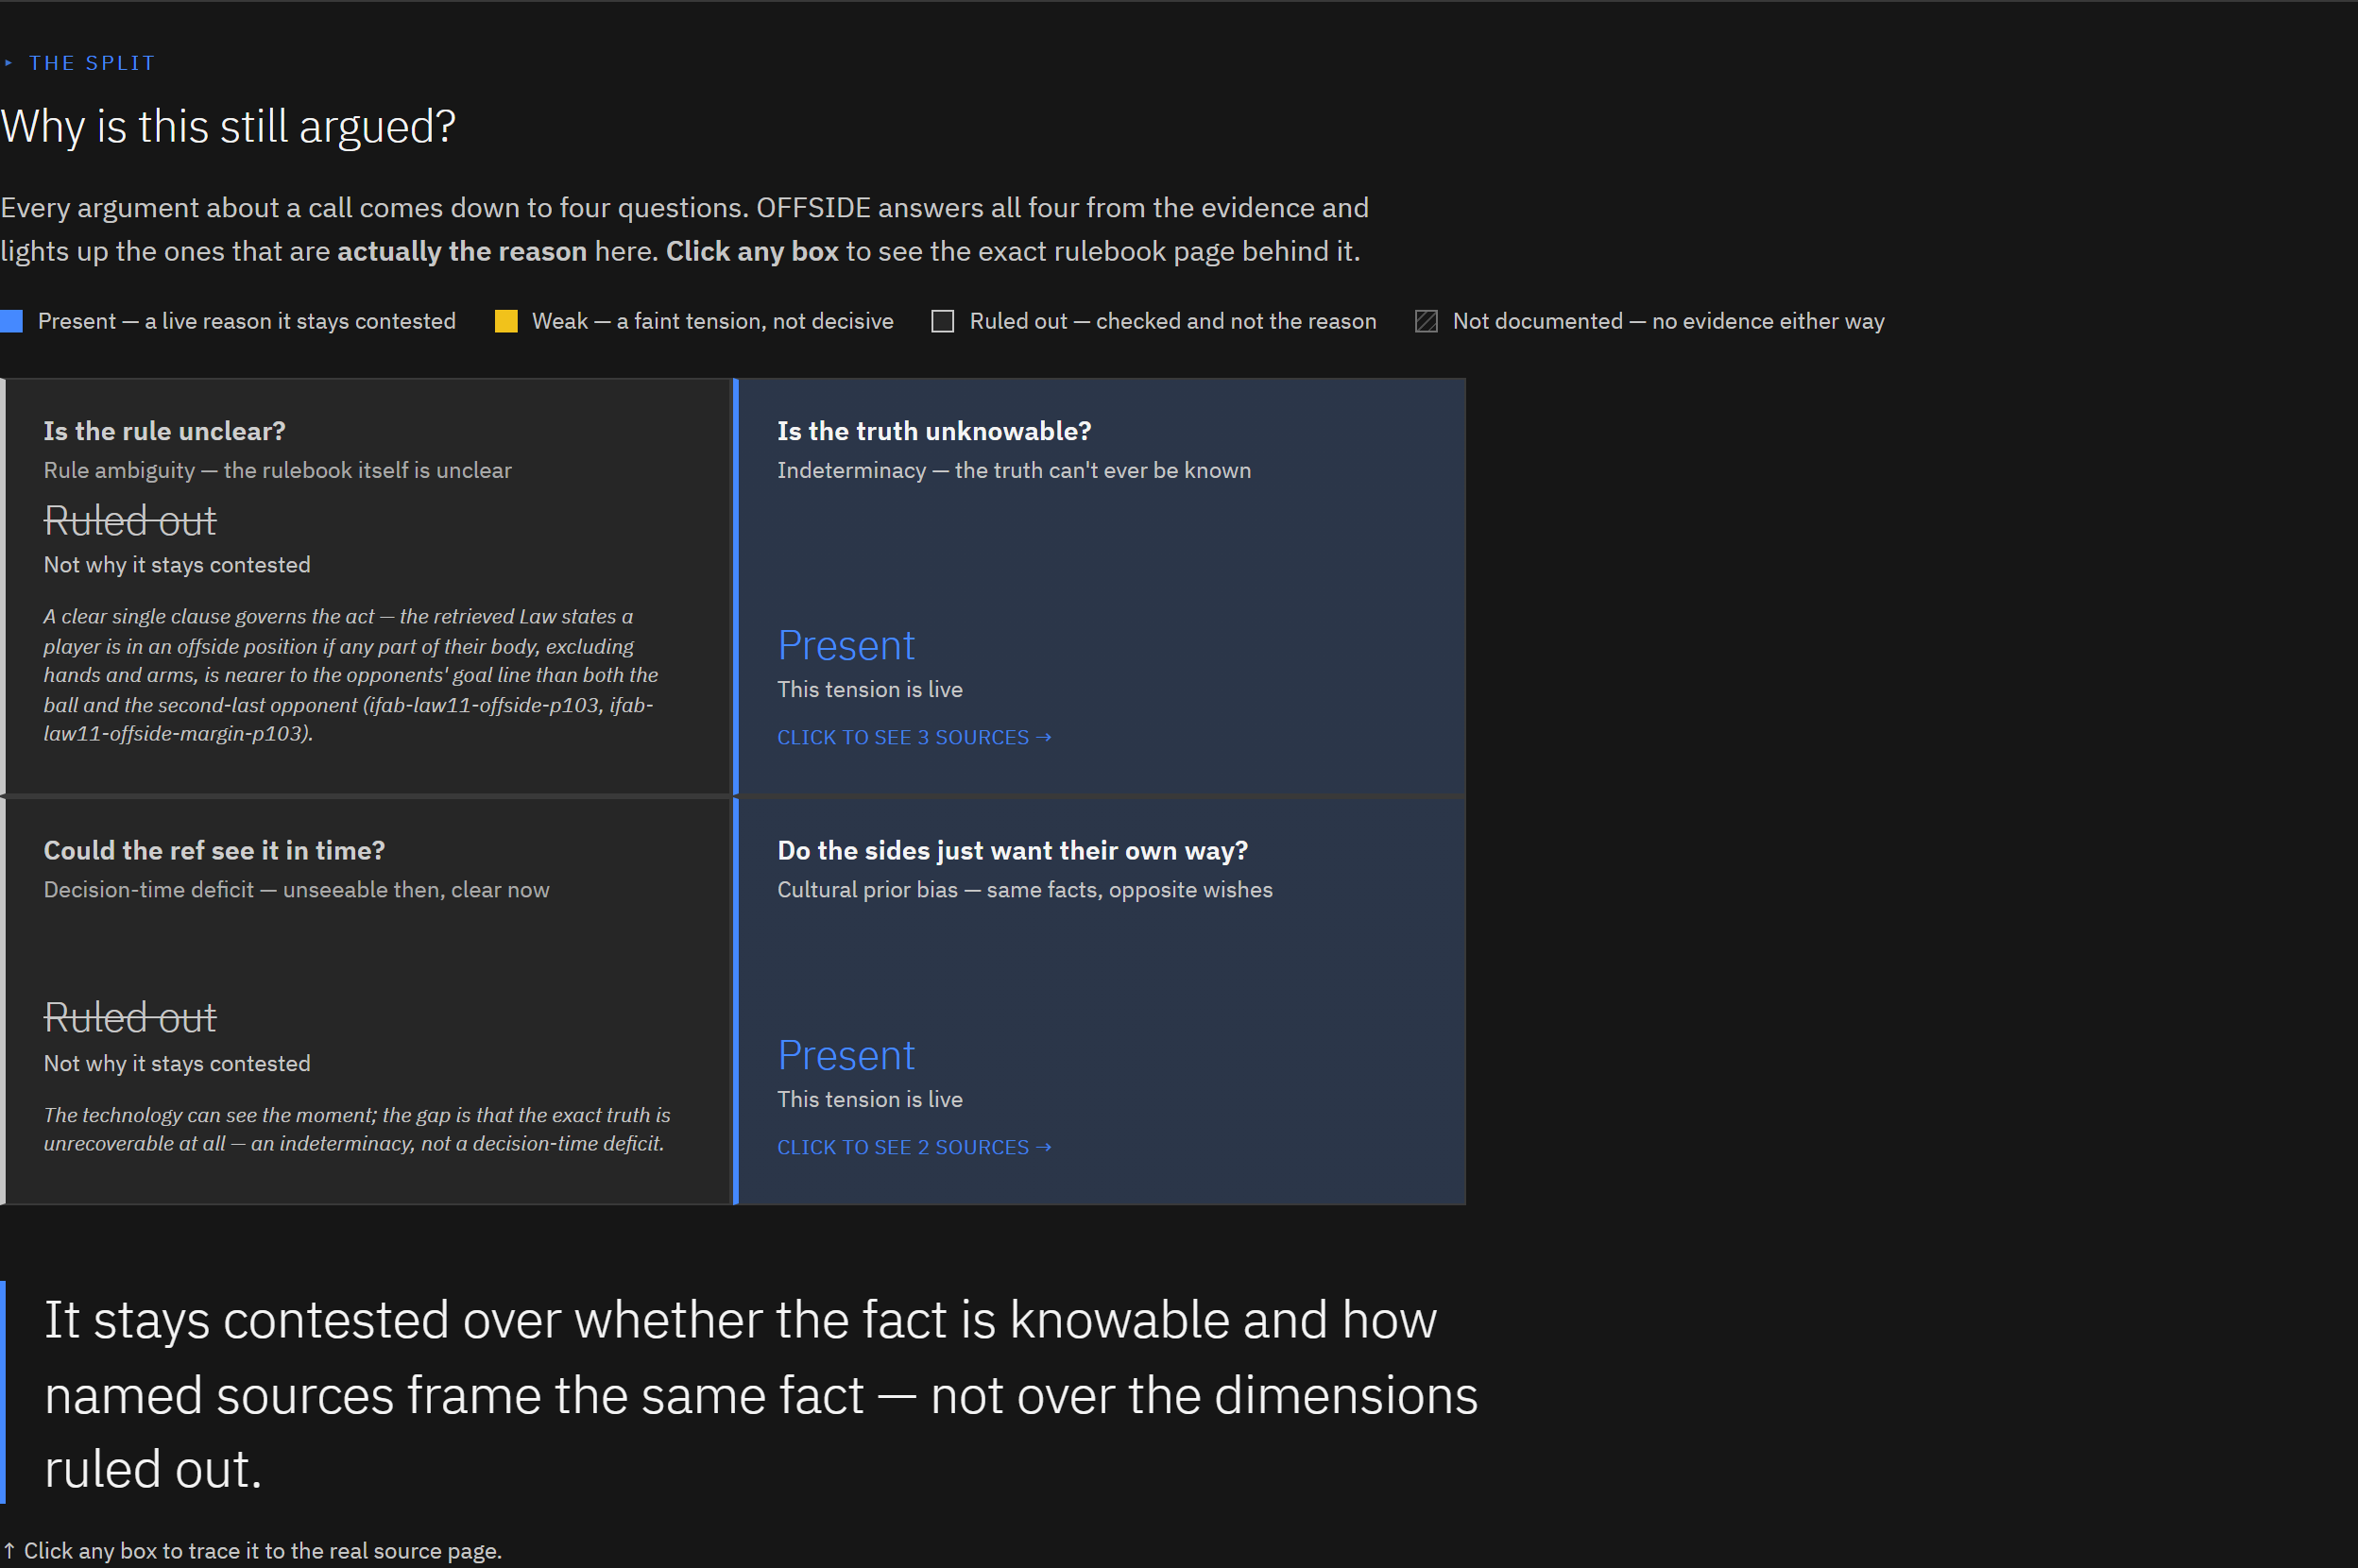
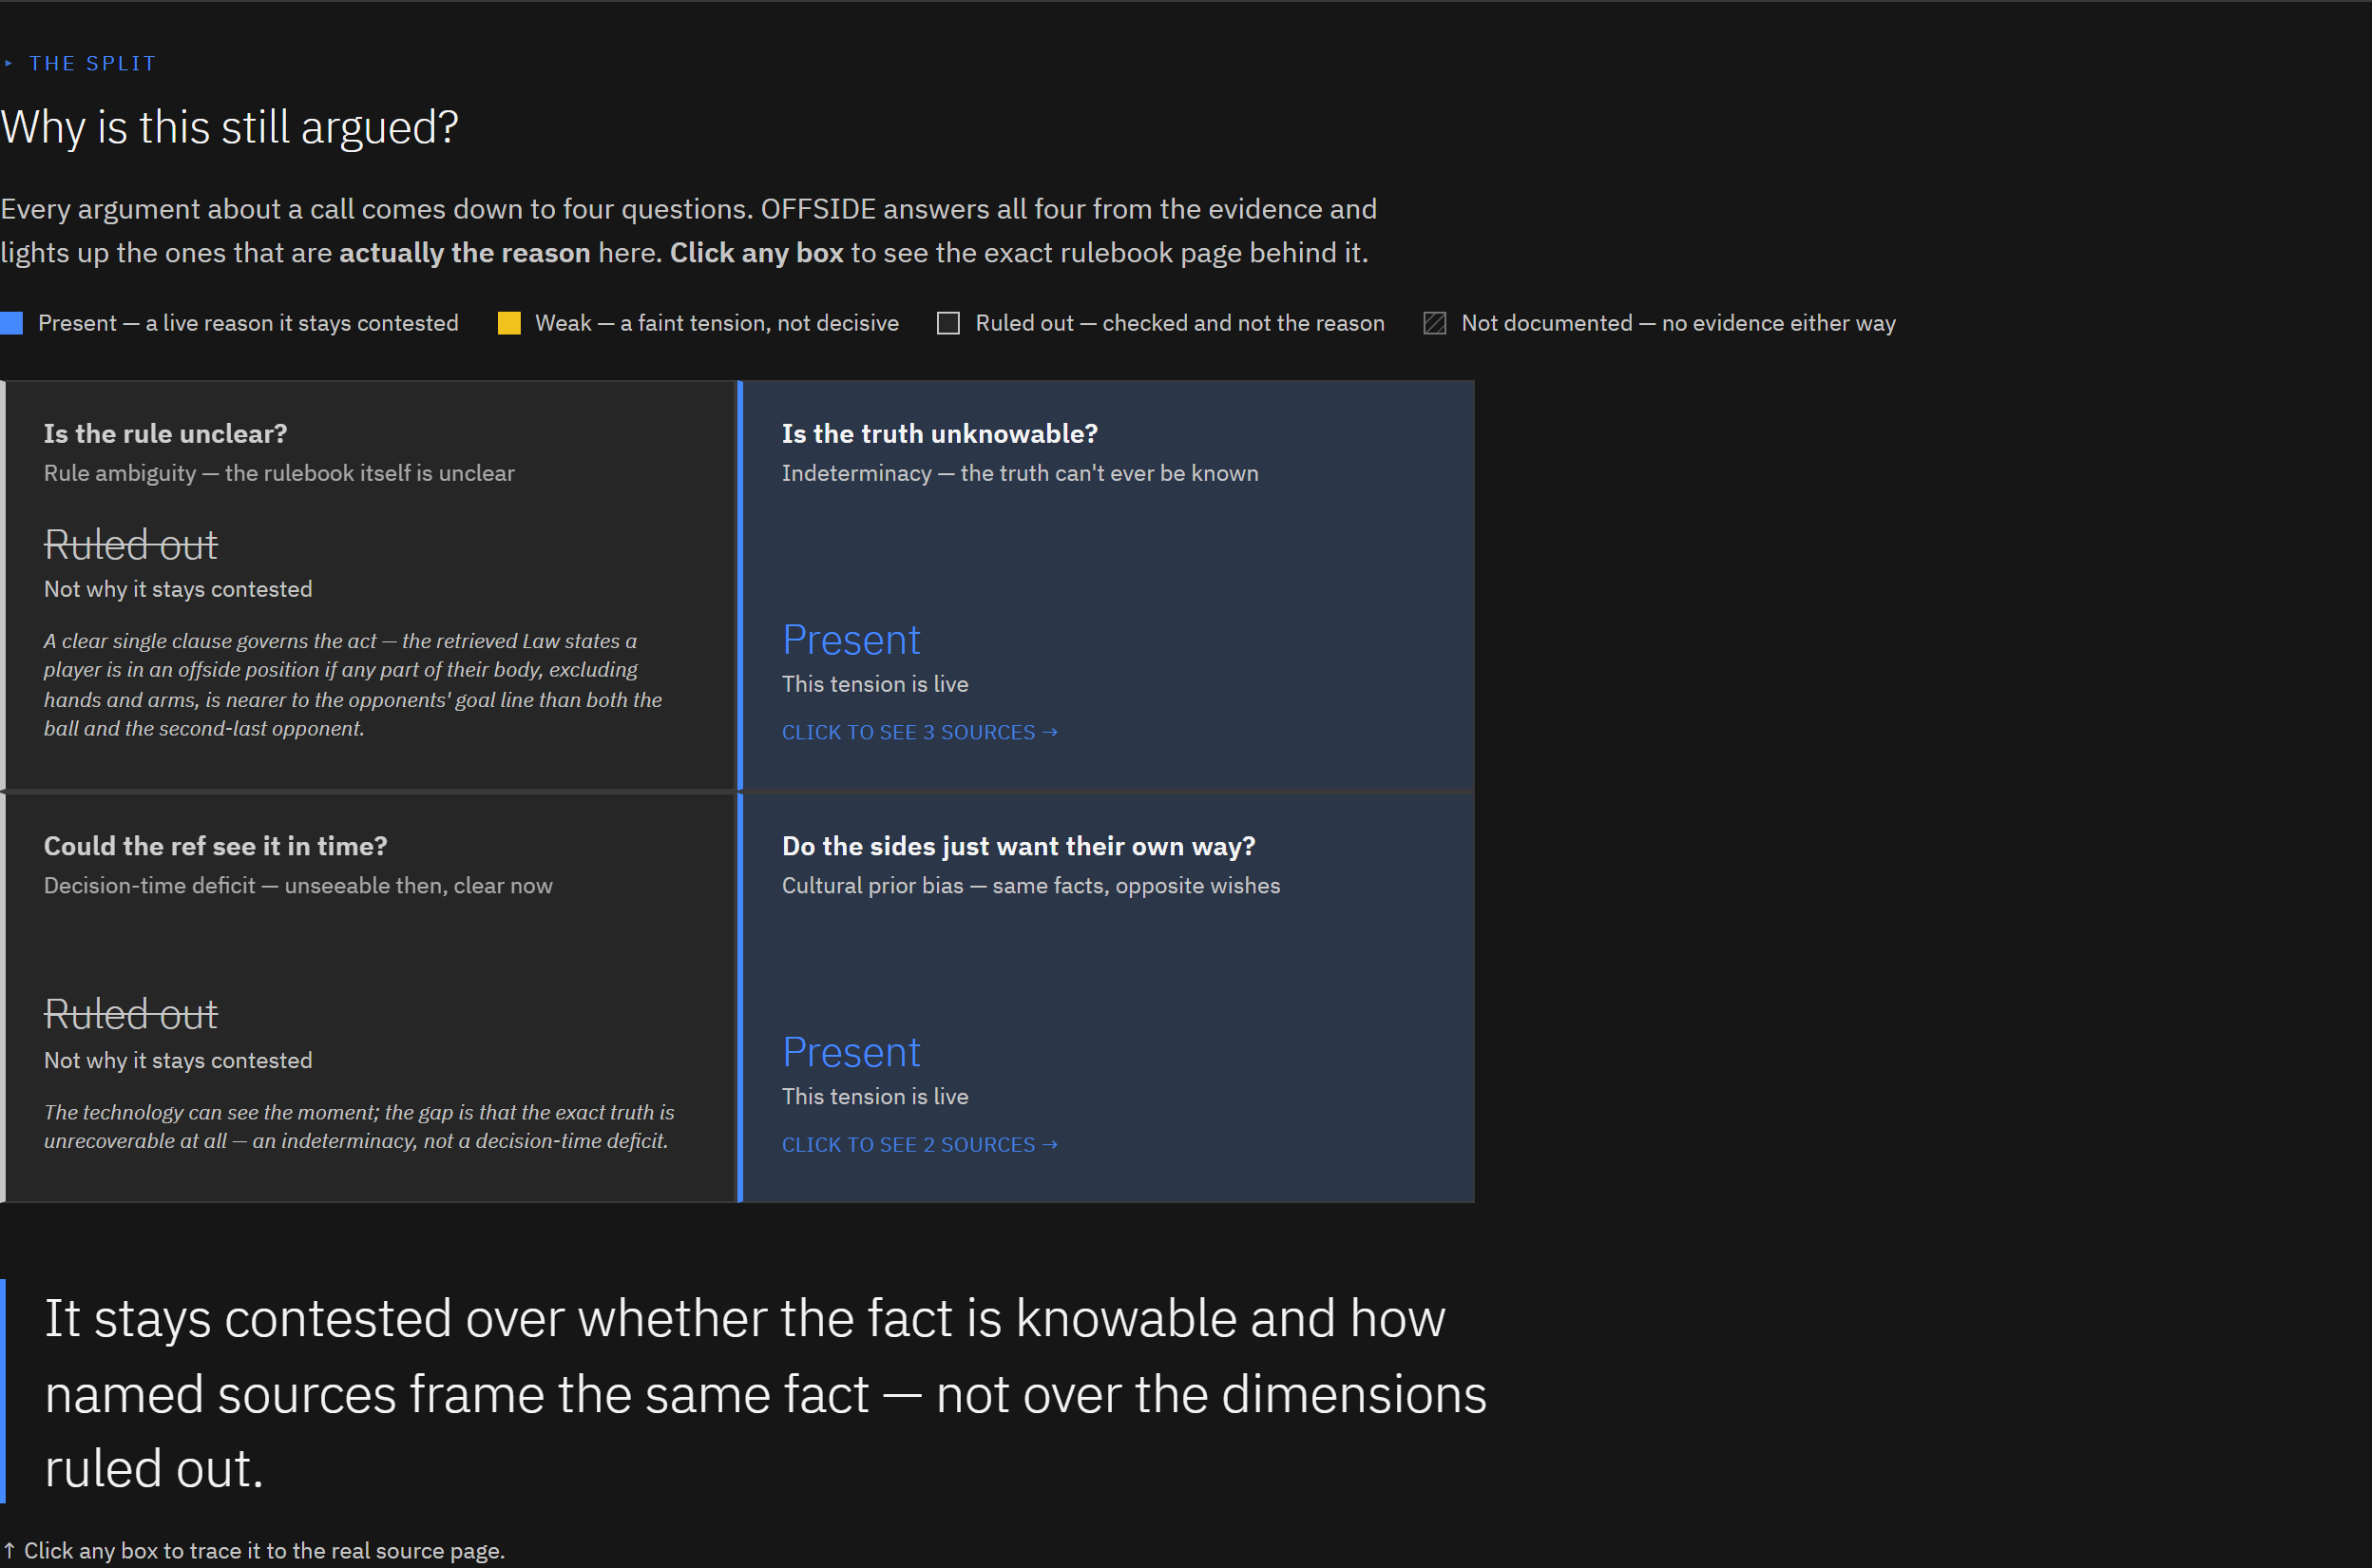
fix: re-bake all six live at HEAD + end the four-model overclaim
Re-bakes every incident through the real Granite pipeline at the current
corpus commit so each fixture's corpus_git_sha matches HEAD and the grounded
HISTORICAL incidents (Lampard, modern handball) rule Indeterminacy OUT (ABSENT)
instead of leaving it NOT_DOCUMENTED. The "subjective" VAR call now reports
Rule ambiguity NOT_DOCUMENTED honestly, and the millimetre-offside probes
re-pass the CI integrity lock (NOISE holds, OVERREACH returns a real Guardian
UNGROUNDED token).

Site-truth pass over every visible claim:
- kills "four-model pipeline" everywhere (README, JUDGE, ProvenanceFooter,
  analyze_live, HowItWorks) — it is three Granite models across four lenses
- qualifies the byte-identical claim: only the offline deterministic baker is
  bit-identical; the live Granite bake reproduces the same SPLIT, citations,
  and Guardian verdicts at temperature 0
- corrects the README SPLIT table to the freshly baked signatures and the
  JUDGE Rule-Evolution label to the rendered "Resolved" / pgmol Rule = OUT prose
- softens the 2026-World-Cup and demo-video lines to what is verifiable

Refreshes the three doc screenshots from the freshly built site so the SPLIT,
the falsification panel, and the offside diagnosis on screen match the shipped
fixtures exactly. Full suite green (145), web build + typecheck clean, contract
in sync.

diff --git a/web/components/HowItWorks.tsx b/web/components/HowItWorks.tsx
@@ -3,8 +3,8 @@
 import { motion } from "motion/react";
 
 // A one-screen, jargon-free explainer for a judge who has 30 seconds. It states plainly:
-// what OFFSIDE is, the four IBM models and what each does, and — the honest part — what is
-// real versus frozen. It sits right after the masthead so the rest of the page makes sense.
+// what OFFSIDE is, the three Granite models (plus Docling) and what each does, and — the
+// honest part — what is real versus frozen. It sits after the masthead so the page makes sense.
 export function HowItWorks() {
   return (
     <section className="how" aria-label="How OFFSIDE works">

diff --git a/web/components/ProvenanceFooter.tsx b/web/components/ProvenanceFooter.tsx
@@ -51,7 +51,7 @@ export function ProvenanceFooter({ provenance, citations }: ProvenanceFooterProp
       {isDeterministic && (
         <p className="provenance__honesty">
           This fixture was routed deterministically from the committed corpus. The live
-          four-model pipeline (Granite reads each lens, Granite Guardian audits each) runs
+          Granite pipeline (Granite reads each lens, Granite Guardian audits each) runs
           via <code>analyze_live.py</code> and is shown in the demo.
         </p>
       )}

diff --git a/engine/scripts/analyze_live.py b/engine/scripts/analyze_live.py
@@ -2,8 +2,9 @@
 answers" proof.
 
 The deployed site reads frozen fixtures (no GPU on static hosting). This script is the
-other half: it runs the *actual* four-model pipeline end to end on a chosen incident and
-narrates every step, so a viewer watches the engine think rather than replay a recording:
+other half: it runs the *actual* Granite pipeline (three IBM models across four lenses) end
+to end on a chosen incident and narrates every step, so a viewer watches the engine think
+rather than replay a recording:
 
   retrieve (per-lens, incident-scoped)  →  Granite reads each lens  →  Granite Guardian
   audits each reading  →  the gated evidence is routed onto THE SPLIT  →  Guardian audits

diff --git a/README.md b/README.md
@@ -35,7 +35,7 @@ what stays inherently uncertain, what was knowable at the time, and who's watchi
 | **What** | For any contested refereeing decision, it decomposes **why the disagreement persists** across four fixed, evidence-grounded dimensions — never whether the call was correct. |
 | **Why it's different** | Today's football AI (X-VARS, SoccerRef-Agents) chases **correctness**. OFFSIDE decomposes **disagreement persistence** — an unclaimed lane. *We don't adjudicate; we decompose.* |
 | **Who it's for** | Not fans re-litigating a goal, but the people who **defend and write these decisions** — referees' bodies, IFAB/PGMOL, and the broadcasters who explain them. It shows *which structural gap* a controversy exposes, and lets you compare them across a season. |
-| **Current, not trivia** | Six incidents — one iconic hook, then **three live, unsettled disputes from the current Laws and season**: the rewritten handball Law, the millimetre semi-automated offside line, and the "subjective" VAR calls that flip week to week. Across the set, *all four* dimensions fire. |
+| **Current, not trivia** | Six incidents — one iconic hook, then **three live, unsettled disputes from the current Laws and season**: the rewritten handball Law, the millimetre semi-automated offside line, and the "subjective" VAR calls that flip week to week. Across the set, three of the four dimensions fire on real evidence and the fourth *rules itself out* — the diagnostic is computed, not staged. |
 | **The trust spine** | Every cell clicks straight through to a real, page-numbered passage of the actual IFAB Laws of the Game. A second IBM model (Granite Guardian) audits the first and demotes anything it can't ground — and a **live falsification engine** lets you watch Guardian overrule the first model on demand, integrity-locked in CI so the audit can't be faked. Where there's no evidence, it says so. |
 | **The moat** | The reasoning model is **structurally incapable of emitting a number** — no fabricated percentages, ever. Enforced by a test in CI. |
 | **Built with** | IBM Granite · IBM Docling · Granite Embedding · **Granite Guardian** · **LangGraph** · **Context Forge (MCP)** · Langflow · RAGAS audit |
@@ -55,7 +55,8 @@ And it is not nostalgia. **This season**, the same structural fight plays out li
 same contact; semi-automated offside draws a line to the millimetre that the authorities
 themselves blur because it cannot be measured that finely; and a PGMOL panel logs
 week-to-week contradictions as "subjective decisions" that are not even counted as errors.
-The 2026 World Cup will run on exactly these Laws and this technology.
+These are the Laws and the match technology in force across the game right now — the same
+framework the next World Cup cycle is being played and refereed under.
 
 Today's football AI tells you **what happened** and adjudicates **whether a call was
 correct**. OFFSIDE answers the question nobody else does:
@@ -96,30 +97,40 @@ state (`NOT_DOCUMENTED`), rather than guessing.
 ### It generalizes — the proof it isn't hard-coded
 
 Switch incidents on the live site and THE SPLIT *changes*. Six real incidents produce six
-distinct signatures from the same engine and the same four rules — and across the set,
-**every one of the four dimensions fires**, which is the proof the framework is
-load-bearing rather than decorative:
+distinct signatures from the same engine and the same four rules — and the dimensions
+**light up or rule themselves out from the evidence**, never on cue, which is the proof the
+framework is load-bearing rather than decorative:
+
+These are the **actual signatures the live Granite pipeline produces** — read straight off
+the committed fixtures, not a hand-drawn ideal:
 
 | Incident | Rule | Indeterminacy | Decision-time | Cultural | What it shows |
 |----------|:----:|:----:|:----:|:----:|----|
 | **Hand of God** (1986) | ○ | ○ | ● | ● | unseen handball + nation-vs-nation |
-| **Modern handball Law** *(live)* | ● | · | ○ | ○ | the **rulebook itself** has competing tests |
-| **Millimetre offside** *(live)* | ○ | ● | ○ | ○ | the **truth is unmeasurable** at the margin |
-| **"Subjective" VAR call** *(live)* | ● | · | ○ | ● | fuzzy threshold **and** each side reads it its way |
+| **Millimetre offside** *(live)* | ○ | ● | ○ | ● | the **truth is unmeasurable** at the margin, and the framings split |
+| **Modern handball Law** *(live)* | ○ | ○ | ○ | ● | the contact is clear; the fight is over **inconsistent application**, framed oppositely |
+| **"Subjective" VAR call** *(live)* | · | ○ | ○ | ● | a fuzzy threshold the written Law doesn't define, and **each side reads it its way** |
 | **Suárez** (2010) | ○ | ○ | ○ | ● | seen + correctly called, pure framing split |
-| **Lampard** (2010) | ○ | · | ● | ○ | knowable now, unavailable then; sides agreed |
+| **Lampard** (2010) | ○ | ○ | ● | ○ | knowable now, unavailable then; sides agreed |
 
 *(● present · ◐ weak · ○ ruled out · · not documented)*
 
-The archive incidents alone only ever lit *Decision-time* and *Cultural bias*; the three
-**current** disputes are what make *Rule ambiguity* and *Indeterminacy* fire — pointing the
-same engine at live, unsettled problems instead of settled trivia. Each incident ships a
-schematic of the disputed moment, so you *see* it before you read it:
+Across the set, three of the four dimensions fire on real evidence — **Decision-time**
+(Hand of God, Lampard), **Indeterminacy** (the millimetre offside line, the de-circularized
+axis the engine used to fake), and **Cultural bias** (everywhere a controversy is really
+about whose side you're on). **Rule ambiguity is the honest counter-case**: for the modern
+handball Law the engine reads the retrieved Law text and finds it *clear* — the dispute is
+about inconsistent **application**, not the rulebook's wording — and for the "subjective" VAR
+call it finds the written Law simply doesn't speak to the threshold at all (`NOT_DOCUMENTED`),
+rather than inventing a conflict. That a diagnostic dimension can *rule itself out*, or
+honestly report *no evidence*, on real retrieval rather than light up on cue, is the proof the
+framework is load-bearing, not decorative.
+Each incident ships a schematic of the disputed moment, so you *see* it before you read it:
 
 | The modern handball Law | The millimetre offside line | The "subjective" VAR call |
 |:--:|:--:|:--:|
 | ![Modern handball Law — one contact, three competing tests](docs/assets/incident-handball-rewrite.png) | ![Millimetre offside — the precise line vs the thick tolerance band](docs/assets/incident-offside-margin.png) | ![Subjective VAR — same contact, opposite calls](docs/assets/incident-pgmol-subjective.png) |
-| RULE AMBIGUITY · present | INDETERMINACY · present | RULE + CULTURAL · present |
+| CULTURAL · present | INDETERMINACY + CULTURAL · present | CULTURAL · present |
 
 ![Three incidents, three different SPLIT signatures from the same engine](docs/assets/generalization.svg)
 
@@ -131,7 +142,8 @@ the change.
 
 The deployed site reads frozen fixtures (static hosting has no GPU). The other half — the
 proof this is a *system*, not six hand-written answers — is a one-command live run that
-executes the actual four-model pipeline on any incident and narrates every step:
+executes the actual Granite pipeline (three IBM models across four lenses) on any incident
+and narrates every step:
 
 ```bash
 # with Ollama serving the three IBM models (granite3.3:8b, granite-embedding:30m, granite3-guardian:2b)
@@ -199,7 +211,7 @@ flowchart LR
     L1 & L2 & L3 & L4 -->|cite-or-die| G["Granite Guardian<br/>groundedness gate"]
     G -->|deterministic routing| SPLIT["THE SPLIT<br/>4 MECE cells · no numbers"]
     SPLIT --> PROBE["Falsification probes<br/>FLIP · NOISE · OVERREACH<br/>Guardian overrules, live · CI-locked"]
-    SPLIT --> FX["Frozen IncidentBundle<br/>byte-identical JSON + provenance"]
+    SPLIT --> FX["Frozen IncidentBundle<br/>cited JSON + provenance"]
     PROBE --> FX
   end
   FX -->|committed to the repo| WEB["web/ · Next.js + IBM Carbon<br/>reads fixtures, no model at runtime"]
@@ -209,9 +221,12 @@ flowchart LR
 Granite reads each lens's evidence (cite-or-die); Granite Guardian audits those readings;
 then **deterministic code** assigns the four diagnostic axes from the gated evidence. The
 routing is code, not a model emission — which is exactly what keeps THE SPLIT reproducible
-and the model unable to fabricate a magnitude. The fixture is deterministic: re-running
-the bake on the same corpus produces a byte-identical file, and every fixture carries its
-own provenance (the models used and the corpus git SHA) so any result can be reproduced.
+and the model unable to fabricate a magnitude. Every fixture carries its own provenance (the
+models used and the corpus git SHA) so any result can be traced. Reproducibility comes in two
+honest grades: the **offline deterministic baker** routes from the committed corpus and
+re-runs **byte-for-byte identical**; the **live Granite bake** runs at temperature 0 with a
+fixed seed, so re-running it reproduces the same SPLIT signature, the same citations, and the
+same Guardian verdicts (the diagnosis is stable, not necessarily bit-identical token text).
 
 ## Built with IBM
 
@@ -237,10 +252,6 @@ and `granite3-guardian:2b` audits each — so the seals you see on the site are 
 captured verdicts, not placeholders. The four SPLIT axes are then assigned from that gated
 evidence by deterministic, documented rules (a pure function of the lens signatures), which
 is what keeps the diagnosis reproducible and the model unable to fabricate a magnitude.
-
-> Built using **IBM Project Bob** (Architect and Code modes) during development — the
-> architecture and engine were shaped with Bob and reviewed for issues along the way. Bob
-> is part of how this was built, not a runtime component of the product.
 
 ## Prior art & the wedge
 

diff --git a/JUDGE.md b/JUDGE.md
@@ -4,11 +4,12 @@
 each maps to one judging criterion.
 
 ### 1. Start on a *current* dispute — read THE SPLIT (Innovation + Challenge fit)
-Click **The modern handball call** (marked `live`). A schematic shows the moment, then THE
-SPLIT — four plain questions, with the real reason lit. Here **"Is the rule unclear?" is
-PRESENT**: the 2024/25 Law gives the referee three competing handball tests, so the dispute
-is the rulebook itself, not the official. This is *this season*, not a famous old goal — and
-no percentages anywhere, because the model **cannot** emit a number.
+Click **The millimetre offside line** (marked `live`). A schematic shows the moment, then THE
+SPLIT — four plain questions, with the real reason lit. Here **"Is the truth unknowable?" is
+PRESENT**: semi-automated technology can see the moment, yet at a millimetre margin the exact
+position is physically unrecoverable — which is why the authorities draw a deliberately thick
+line. This is *this season*, not a famous old goal — and no percentages anywhere, because the
+model **cannot** emit a number.
 
 ### 2. Click any PRESENT cell (Trust / Responsible AI)
 A cell with a live tension traces straight to its source — the exact IFAB Law passage with
@@ -18,23 +19,30 @@ Where there is no evidence, the cell says `NOT_DOCUMENTED` rather than guessing.
 ### 3. Switch to a *live* dispute (Challenge fit — this is the key one)
 
 The chain at the top marks three incidents **`live`** — drawn from the current Laws and
-season, not the archive. Click **The modern handball call**: THE SPLIT now lights **Rule
-ambiguity = PRESENT** — the first incident where the *rulebook itself* is the problem (the
-2024/25 Law keeps three competing handball tests). Then **The millimetre offside line** lights
+season, not the archive. Click **The millimetre offside line**: THE SPLIT lights
 **Indeterminacy = PRESENT** — the truth at the margin is physically unmeasurable, which is
-why the authorities draw a deliberately thick line. These two axes *never fire* on the famous
-goals; the current disputes are what prove the four-axis framework is load-bearing.
+why the authorities draw a deliberately thick line. This axis *never fires* on the famous
+goals (their facts were always knowable); it is the current disputes that prove the four-axis
+framework is load-bearing. Note what the live engine does on **The modern handball call**: it
+reads the retrieved Law as *clear* and rules **Rule ambiguity = OUT**, attributing the fight
+to opposed **Cultural framing** instead. On **The "subjective" VAR call** it goes further and
+reports **Rule ambiguity = `NOT_DOCUMENTED`** — the written Law simply doesn't define the
+threshold, so it refuses to invent a conflict. Either way the diagnostic resolves a dimension
+from real retrieval, not by lighting it on cue.
 
 ### 3b. Walk the Divergence Lineage (Innovation + Technical depth)
 
 Click across all six. THE SPLIT changes each time and a callout names the axis that flipped.
-Across the set **all four dimensions fire** — same engine, six different diagnoses, the proof
-it's computed from evidence, not pre-written.
+Across the set the dimensions **light up or rule themselves out from the evidence** — three
+of the four fire (Decision-time, Indeterminacy, Cultural) and the fourth (Rule ambiguity)
+either rules itself out (the engine reads the Law text as clear) or reports no governing
+clause at all. Same engine, six different diagnoses, computed from evidence, not pre-written.
 
 ### 4. Toggle Rule Evolution on Lampard (Technical depth)
 Select **Lampard's ghost goal** and switch the era toggle (2010 → 2026). The Decision-time
-cell flips from PRESENT to **RESOLVED** — goal-line technology now makes the fact automatic.
-Verdict-free: the call isn't re-judged, only what was knowable in the moment.
+cell flips from **Present** to **Resolved** — goal-line technology now makes the fact
+automatic, so the gap that was present in 2010 is ruled out today. Verdict-free: the call
+isn't re-judged, only what was knowable in the moment.
 
 ### 5. Read the lens panels + the Granite Guardian seal (IBM tools)
 Each of the four lenses reads only its own evidence. The **"Granite Guardian: grounded"**
@@ -45,19 +53,21 @@ purpose: there's no data anomaly to cite, and the system refuses to speculate.
 ### 6. (Optional) Watch the real engine run live (Technical execution)
 
 The site reads frozen fixtures — static hosting has no GPU. To see it is a *system*, not six
-hand-written answers, one command runs the actual four-model pipeline and narrates each step:
+hand-written answers, one command runs the actual Granite pipeline (three IBM models across
+four lenses) and narrates each step:
 
 ```bash
 python engine/scripts/analyze_live.py --incident offside-margin
 ```
 
 It retrieves each lens's evidence, has Granite read it, has Granite Guardian audit each
-reading, routes the survivors onto THE SPLIT, and prints the diagnosis live. (Shown running
-in the demo video.)
+reading, routes the survivors onto THE SPLIT, and prints the diagnosis live. This is what the
+demo recording screen-captures end to end.
 
 ---
 
 **Reproducibility:** the footer shows the IBM models and the corpus git SHA each analysis
-was baked from. The bake is deterministic (temperature 0) — re-running it on the same
-corpus produces a byte-identical result. See [README.md](README.md) for the architecture
-and [`engine/bake.ipynb`](engine/bake.ipynb) for the build.
+was baked from. The live bake runs at temperature 0 with a fixed seed, so re-running it
+reproduces the same SPLIT, the same citations, and the same Guardian verdicts; the offline
+deterministic baker reproduces a fixture byte-for-byte. See [README.md](README.md) for the
+architecture and [`engine/bake.ipynb`](engine/bake.ipynb) for the build.

diff --git a/fixtures/README.md b/fixtures/README.md
@@ -6,10 +6,10 @@ cross-directory path. Each is a frozen, audited `IncidentBundle` named by incide
 (e.g. `hand-of-god-1986.json`), produced by the bake (`engine/bake.ipynb`) and read
 verbatim by the web app — no model or Python runs at web runtime.
 
-A fixture is deterministic: re-running the bake on the same corpus yields byte-identical
-bytes (sorted keys, temperature 0, fixed seed). Each carries its own provenance — the
-models used and the corpus git SHA — so any bundle traces back to its exact sources and
-reproduces.
+A fixture is reproducible: the offline deterministic baker re-runs byte-for-byte identical
+(sorted keys, temperature 0, fixed seed), and the live Granite bake re-runs to the same SPLIT,
+citations, and Guardian verdicts. Each carries its own provenance — the models used and the
+corpus git SHA — so any bundle traces back to its exact sources and reproduces.
 
 This directory is kept as the canonical pointer; the files themselves are under
 `web/fixtures/`.